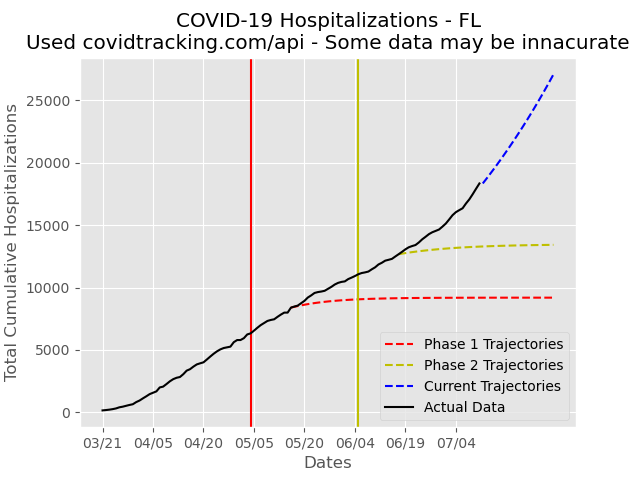
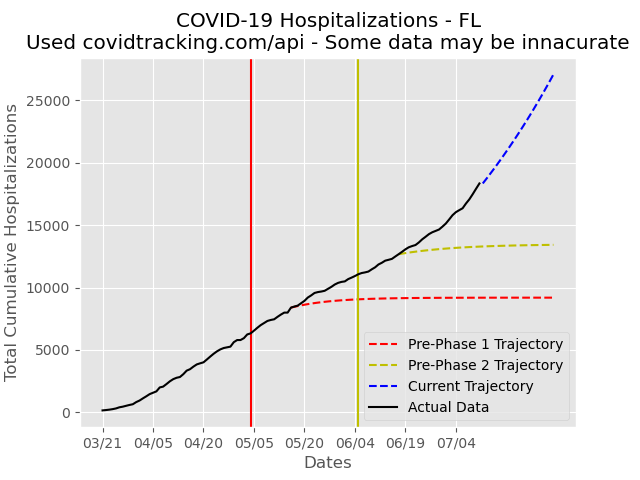
Fixed Legend Issue with Graphs

Changed region(s): [[0.5938, 0.6875, 0.875, 0.875]]

diff --git a/Scripts/logistic_regression_analysis.py b/Scripts/logistic_regression_analysis.py
@@ -135,7 +135,7 @@ for state in states:
             y_values = logistic(x_values, a, b, c)
             y_values -= y_values[0] - hospitalized[index]
 
-            plt.plot(x_values, y_values, linestyle='dashed', label=f'{names[i]} Trajectories', color=colors[color_num])
+            plt.plot(x_values, y_values, linestyle='dashed', label=f'Pre-{names[i]} Trajectory', color=colors[color_num])
             plt.axvline(x=index - lag_time, color=colors[color_num])
         else:
             bounds = (0, [5000., 1.1, 1000.])
@@ -150,7 +150,7 @@ for state in states:
             y_values = exponential(x_values, a, b, c)
             y_values -= y_values[0] - hospitalized[-1]
 
-            plt.plot(x_values, y_values, linestyle='dashed', label=f'{names[i]} Trajectories', color='b')
+            plt.plot(x_values, y_values, linestyle='dashed', label=f'{names[i]} Trajectory', color='b')
         color_num += 1
 
     x_ticks, x_tick_labels = [], []
